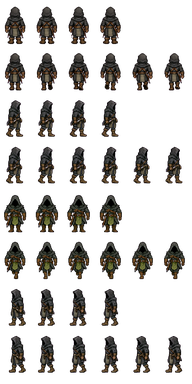
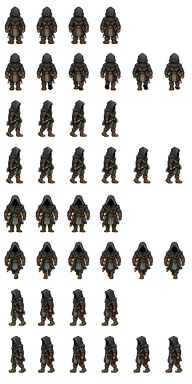
fix(spatial): correct south-facing sprite palette (#458)
* fix(spatial): match south-facing sprite green tones

* fix(spatial): remove olive cast from south-facing sprites

* chore(assets): compress corrected player atlas

diff --git a/CHANGELOG.md b/CHANGELOG.md
@@ -210,3 +210,8 @@ The entries below cover the v0.52.x development line through v0.52.49. This line
 ### Documentation structure
 
 - Established a dedicated design-specification library and separated the active roadmap, current changelog, and prior changelog history so future plans, completed work, and technical documentation have distinct homes.
+
+### v0.52.50: South-facing player sprite palette correction
+
+- Recolored the 1,427 olive pixels in the south-facing idle and walk rows (atlas rows 4–5, zero-indexed) to a restrained warm-charcoal palette while preserving per-pixel luminance to rounding, alpha, frame positions, all unselected pixels, and the animation manifest.
+- Bumped Rust and Android fallback version metadata to 0.52.50.

diff --git a/ROADMAP.md b/ROADMAP.md
@@ -6,7 +6,7 @@ Completed work in the current development line belongs in [CHANGELOG.md](CHANGEL
 
 ## Current development line — v0.52.x
 
-**Repository version at this roadmap revision: 0.52.49.**
+**Repository version at this roadmap revision: 0.52.50.**
 
 **Theme:** spatial gameplay and presentation foundations.
 
